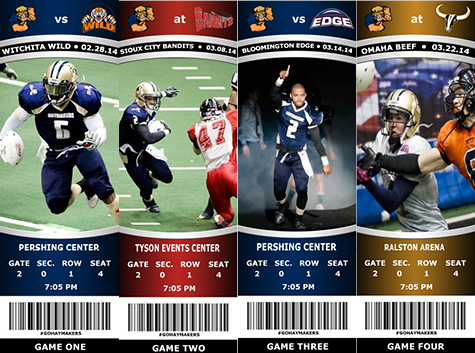
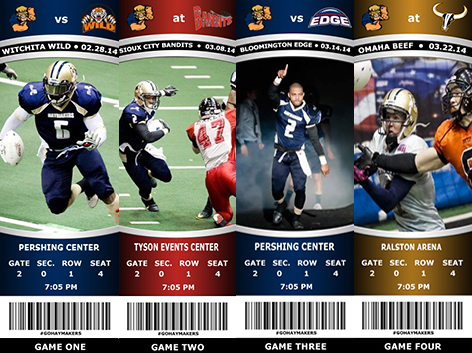
update photos and update esc key js

diff --git a/js/site.min.js b/js/site.min.js
@@ -1,1 +1,1 @@
-function updateValue(e,n){e.val(n),null===e.val()&&e.val(n),e.focus(function(){e.val()===n&&e.val("")}),e.blur(function(){null!==e.val()&&""!==e.val()||e.val(n)})}function backgroundImage(e,n,i){$(e).each(function(){var e=$(this).find("img").first().attr("src");1==i?$(this).find("img").first("img").hide():$(this).find("img").parent(".image, .spotlight-image").hide(),$(this).css("background","url("+e+")"+n)})}function bodyClassToggler(e,n){$(e).on("click",function(){$("body").toggleClass(n)})}$(".spotlight-container ul > li").length>1&&$(".spotlight-container ul").each(function(){$(this).fireSlider({delay:8e3,prev:$(this).parents(".slider__contents").siblings(".slider__controls").find(".slider-nav--prev"),next:$(this).parents(".slider__contents").siblings(".slider__controls").find(".slider-nav--next")})});var bps=[{breakpoint:1,show:1,active:1},{breakpoint:640,show:2,active:1},{breakpoint:800,show:3,active:1},{breakpoint:1e3,show:4,active:2}];$(".sponsors-container ul > li").length>1&&$(".sponsors-container ul").fireSlider({active:2,delay:8e3,disableLinks:!1,prev:$(this).parent().siblings(".slider__controls").find(".slider-nav--prev"),next:$(this).parent().siblings(".slider__controls").find(".slider-nav--next"),breakpoints:bps}),$(document).ready(function(){$(".caption").show(),backgroundImage($(".has-bg"),"center center / cover no-repeat",2),backgroundImage($(".has-bg__collection li"),"center center / cover no-repeat",2),backgroundImage($(".has-bg-li__collection li .collection-item-image"),"center center / cover no-repeat",1),$(".tab").on("click",function(){$(this).parent(".project").toggleClass("open"),$(this).parent(".project").siblings().removeClass("open")}),$(".showcase").on("click",function(){$(this).find("img").clone().appendTo(".showcase-screen"),$(".showcase-screen").addClass("open")}),$(".showcase-screen").on("click",function(){$(this).removeClass("open"),$(this).find("img").remove()})});
+function updateValue(e,n){e.val(n),null===e.val()&&e.val(n),e.focus(function(){e.val()===n&&e.val("")}),e.blur(function(){null!==e.val()&&""!==e.val()||e.val(n)})}function backgroundImage(e,n,i){$(e).each(function(){var e=$(this).find("img").first().attr("src");1==i?$(this).find("img").first("img").hide():$(this).find("img").parent(".image, .spotlight-image").hide(),$(this).css("background","url("+e+")"+n)})}function bodyClassToggler(e,n){$(e).on("click",function(){$("body").toggleClass(n)})}$(".spotlight-container ul > li").length>1&&$(".spotlight-container ul").each(function(){$(this).fireSlider({delay:8e3,prev:$(this).parents(".slider__contents").siblings(".slider__controls").find(".slider-nav--prev"),next:$(this).parents(".slider__contents").siblings(".slider__controls").find(".slider-nav--next")})});var bps=[{breakpoint:1,show:1,active:1},{breakpoint:640,show:2,active:1},{breakpoint:800,show:3,active:1},{breakpoint:1e3,show:4,active:2}];$(".sponsors-container ul > li").length>1&&$(".sponsors-container ul").fireSlider({active:2,delay:8e3,disableLinks:!1,prev:$(this).parent().siblings(".slider__controls").find(".slider-nav--prev"),next:$(this).parent().siblings(".slider__controls").find(".slider-nav--next"),breakpoints:bps}),$(document).keyup(function(e){27==e.keyCode&&($(".showcase-screen").removeClass("open"),$(".showcase-screen").find("img").remove())}),$(document).ready(function(){$(".caption").show(),backgroundImage($(".has-bg"),"center center / cover no-repeat",2),backgroundImage($(".has-bg__collection li"),"center center / cover no-repeat",2),backgroundImage($(".has-bg-li__collection li .collection-item-image"),"center center / cover no-repeat",1),$(".tab").on("click",function(){$(this).parent(".project").toggleClass("open"),$(this).parent(".project").siblings().removeClass("open")}),$(".showcase").on("click",function(){$(this).find("img").clone().appendTo(".showcase-screen"),$(".showcase-screen").addClass("open")}),$(".showcase-screen").on("click",function(){$(this).removeClass("open"),$(this).find("img").remove()})});

diff --git a/css/stylesheet.css b/css/stylesheet.css
@@ -160,6 +160,8 @@ General
 
 .showcase-screen { height: 100%; width: 100%; position: fixed; top: 0; bottom: 0; left: 0; right: 0; background: rgba(0, 0, 0, 0.75); z-index: 999; display: none; }
 .showcase-screen.open { display: block; }
+.showcase-screen .close-trigger { color: #ffffff; font-size: 40px; position: absolute; right: 20px; top: 20px; }
+.showcase-screen .close-trigger:hover { cursor: pointer; }
 .showcase-screen img { text-align: center; width: auto; max-height: 80%; position: absolute; top: 50%; left: 50%; -webkit-transform: translateY(-50%) translateX(-50%); transform: translateY(-50%) translateX(-50%); }
 
 /* =============================================================================
@@ -225,7 +227,8 @@ Projects - Left
 .left .tab:hover { width: 45px; right: -44px; }
 .left ul.gallery { padding: 0; margin: 0; height: 100%; display: -webkit-box; display: -webkit-flex; display: -ms-flexbox; display: flex; -webkit-box-orient: vertical; -webkit-box-direction: normal; -webkit-flex-direction: column; -ms-flex-direction: column; flex-direction: column; }
 .left ul.gallery li.item { display: block; margin-bottom: 20px; width: 200px; height: 21%; -webkit-box-flex: 0; -webkit-flex: 0 1 21%; -ms-flex: 0 1 21%; flex: 0 1 21%; overflow: hidden; }
-.left ul.gallery li.item .showcase { position: relative; height: 100%; width: 100%; background-position: top !important; }
+.left ul.gallery li.item .showcase { position: relative; height: 100%; width: 100%; background-position: top !important; opacity: .8; }
+.left ul.gallery li.item .showcase:hover { opacity: 1; cursor: pointer; }
 
 /* =============================================================================
 Projects - Right
@@ -255,7 +258,8 @@ Projects - Bottom
 .bottom ul.gallery li { width: 25%; -webkit-box-flex: 0; -webkit-flex: 0 1 25%; -ms-flex: 0 1 25%; flex: 0 1 25%; height: 200px; }
 @media only screen and (max-width: 667px) { .bottom ul.gallery li { width: 100%; -webkit-box-flex: 0; -webkit-flex: 0 1 100%; -ms-flex: 0 1 100%; flex: 0 1 100%; height: 50px; margin-bottom: 10px; } }
 .bottom ul.gallery li:not(:last-child) { margin-right: 20px; }
-.bottom ul.gallery li .showcase { background-position: top !important; width: 100%; height: 100%; position: relative; }
+.bottom ul.gallery li .showcase { background-position: center !important; width: 100%; height: 100%; position: relative; opacity: .8; }
+.bottom ul.gallery li .showcase:hover { opacity: 1; cursor: pointer; }
 .bottom ul.gallery li .showcase .image img { width: 100%; max-height: 200px; }
 .bottom ul.gallery li .showcase h4 { position: absolute; top: 50%; left: 0; right: 0; -webkit-transform: translateY(-50%); transform: translateY(-50%); font-size: 16px; padding: 5px 10px; text-transform: uppercase; }
 

diff --git a/scss/projects/_bottom.scss b/scss/projects/_bottom.scss
@@ -57,10 +57,15 @@ Projects - Bottom
 				margin-right: 20px;
 			}
 			.showcase {
-				background-position: top !important;
+				background-position: center !important;
 				width: 100%;
 				height: 100%;
 				position: relative;
+				opacity: .8;
+				&:hover {
+					opacity: 1;
+					cursor: pointer;
+				}
 				.image {
 					img {
 						width: 100%;

diff --git a/js/site.js b/js/site.js
@@ -6,6 +6,14 @@
 //= include components/bodyClassToggler.js
 //= include components/fireslider_settings.js
 
+//  document key up
+$(document).keyup(function(e) {
+  if (e.keyCode == 27) {
+    $('.showcase-screen').removeClass('open');
+    $('.showcase-screen').find('img').remove();
+  }
+});
+
 
 $(document).ready(function() {
 

diff --git a/js/site.inc.js b/js/site.inc.js
@@ -164,6 +164,14 @@ if ( $('.sponsors-container ul > li').length > 1 ) {
 }
 
 
+//  document key up
+$(document).keyup(function(e) {
+  if (e.keyCode == 27) {
+    $('.showcase-screen').removeClass('open');
+    $('.showcase-screen').find('img').remove();
+  }
+});
+
 
 $(document).ready(function() {
 

diff --git a/html/_header.html b/html/_header.html
@@ -22,7 +22,9 @@
 
   <div class="site-container">
 
-    <div class="showcase-screen"></div>
+    <div class="showcase-screen">
+      <div class="close-trigger"><i class="fa fa-times-circle" aria-hidden="true"></i></div>
+    </div>
 
 
   <!-- BEGIN header -->

diff --git a/index.html b/index.html
@@ -22,7 +22,9 @@
 
   <div class="site-container">
 
-    <div class="showcase-screen"></div>
+    <div class="showcase-screen">
+      <div class="close-trigger"><i class="fa fa-times-circle" aria-hidden="true"></i></div>
+    </div>
 
 
   <!-- BEGIN header -->

diff --git a/scss/layouts/_general.scss b/scss/layouts/_general.scss
@@ -26,6 +26,16 @@ General
 	&.open {
 		display: block;
 	}
+	.close-trigger {
+		color: #ffffff;
+		font-size: 40px;
+		position: absolute;
+		right: 20px;
+		top: 20px;
+		&:hover {
+			cursor: pointer;
+		}
+	}
 	img {
 		text-align: center;
 		width: auto;

diff --git a/scss/projects/_left.scss b/scss/projects/_left.scss
@@ -47,6 +47,11 @@ Projects - Left
 				height: 100%;
 				width: 100%;
 				background-position: top !important;
+				opacity: .8;
+				&:hover {
+					opacity: 1;
+					cursor: pointer;
+				}
 			}
 		}
 	}
